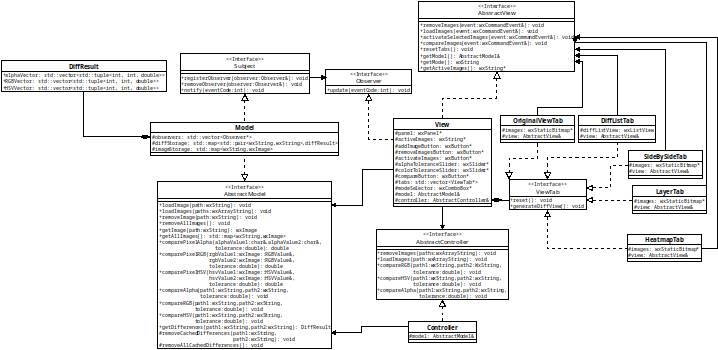
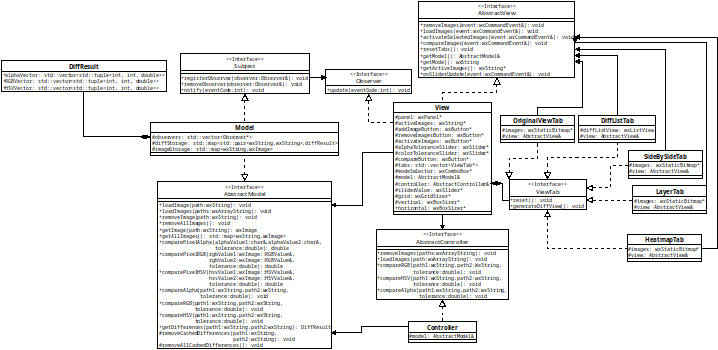
* Adding grid for add/remove button * Implement color tolerance slider * Implement slider event * modified UML * add value slider textbox

Changed region(s): [[0.5209, 0.2571, 0.7047, 0.6286], [0.5822, 0.2, 0.7967, 0.2286]]

diff --git a/src/view/View.cpp b/src/view/View.cpp
@@ -9,48 +9,59 @@ enum{                //IDs used for id item's definition
 	SLIDER_ALPHA,
 	SLIDER_COLOR,
 	MODE_SELECTOR,
-	LIST_ID
-
-};
-enum{
-
+	LIST_ID,
+	ABOUT,
+	STATIC_ID,
+	VALUE_SLIDER
 };
 wxBEGIN_EVENT_TABLE(View,wxFrame)
 	EVT_BUTTON(BUTTON_ADD,View::loadImages)
 	EVT_BUTTON(BUTTON_REMOVE,View::removeImages)
 	EVT_BUTTON(BUTTON_ACTIVATE,View::activateSelectedImages)
 	EVT_BUTTON(BUTTON_COMPARE,View::compareImages)
+	EVT_MENU(ABOUT,View::onAbout)
+	EVT_MENU(wxID_EXIT,View::onExit)
+	EVT_SLIDER(SLIDER_COLOR,View::onSliderUpdate)
 wxEND_EVENT_TABLE()
 View::View(const std::string title, const wxPoint &pos, const wxSize &size, AbstractModel& model, AbstractController& controller): wxFrame(NULL,wxID_ANY,title,pos,size),model(model),controller(controller) {
 
     model.registerObserver(this);  //registration view for successive notification
+
     panel = new wxPanel(this,PANEL_ID);
+    menuFile= new wxMenu;
+    menuFile->Append(ABOUT,"Eyeglass");
+	menuFile->AppendSeparator();
+	menuFile->Append(wxID_EXIT);
+	menu = new wxMenuBar;
+	menu->Append(menuFile,"&File");
+	SetMenuBar(menu);
     addImageButton = new wxButton(panel,BUTTON_ADD,_T("Aggiungi un immagine"));
     removeImagesButton = new wxButton(panel,BUTTON_REMOVE,_T("Rimuovi Immagine"));
     activateImages = new wxButton(panel,BUTTON_ACTIVATE,_T("Attiva Immagine"));
     compareButton = new wxButton(panel,BUTTON_COMPARE,_T("Compara le immagini"));
-    alphaToleranceSlider = new wxSlider(panel,SLIDER_ALPHA,500,0,1000,wxDefaultPosition,wxSize(200,200));
-    colorToleranceSlider= new wxSlider(panel,SLIDER_COLOR,500,0,100);
+    alphaToleranceSlider = new wxSlider(panel,SLIDER_ALPHA,500,0,1000,wxDefaultPosition,wxSize(100,50));
+    colorToleranceSlider= new wxSlider(panel,SLIDER_COLOR,500,0,1000,wxDefaultPosition,removeImagesButton->GetSize());
+	sliderValue = new wxTextCtrl(panel,VALUE_SLIDER,_("500"),wxDefaultPosition,wxDefaultSize,wxTE_CENTRE);
+	sliderValue->SetEditable(false);
     modeSelector = new wxComboBox(panel,MODE_SELECTOR,wxEmptyString);
     list = new wxListView(panel, LIST_ID, wxPoint(50, 50), wxSize(500, 400));
-    list->InsertColumn(0, "Images");
-    wxBoxSizer* vbox = new wxBoxSizer(wxVERTICAL);
-    wxBoxSizer* hbox1 = new wxBoxSizer(wxHORIZONTAL);
-    wxBoxSizer* hbox2 = new wxBoxSizer(wxHORIZONTAL);
+    list->InsertColumn(0, "Images",wxLIST_FORMAT_LEFT,250);
+	wxBoxSizer* hbox = new wxBoxSizer(wxHORIZONTAL);
+	wxBoxSizer* vbox = new wxBoxSizer(wxVERTICAL);
+	wxGridSizer* gs = new wxGridSizer(3,3,10,10);
+	hbox->Add(list,0,wxEXPAND);
+	vbox->Add(hbox,wxALIGN_LEFT);
+	gs->Add(addImageButton,0);
+	gs->Add(removeImagesButton,0);
+	gs->Add(activateImages,0);
+	gs->Add(new wxStaticText(panel, wxID_ANY, wxT("Seleziona tolleranza colore:")),0);
+	gs->Add(colorToleranceSlider,1);
+	gs->Add(sliderValue,0);
+	vbox->Add(gs,0,wxLEFT);
+	panel->SetSizer(vbox);
 
-    hbox1->Add(new wxPanel(panel,PANEL_ID));
 
-    vbox->Add(hbox1,1,wxEXPAND);
-
-    hbox2->Add(addImageButton);
-    hbox2->Add(removeImagesButton);
-    hbox2->Add(alphaToleranceSlider);
-    hbox2->Add(activateImages);
-    hbox2->Add(compareButton);
-
-    vbox->Add(hbox2,0,wxALIGN_CENTER);
-    panel->SetSizer(vbox);
-    Centre();
+	Centre();
 
 }
 void View::update(int eventCode) {
@@ -58,7 +69,6 @@ void View::update(int eventCode) {
 }
 
 void View::removeImages(wxCommandEvent& event) {
-	std::cout<<"BUO";
 	long item;
 	while((item = list->GetNextItem(-1,wxLIST_NEXT_ALL,wxLIST_STATE_SELECTED)) != -1){
 		list->DeleteItem(item);
@@ -66,8 +76,7 @@ void View::removeImages(wxCommandEvent& event) {
 }
 
 void View::loadImages(wxCommandEvent& event) {
-	std::cout<<"prova";
-	wxFileDialog* fileDialog=new wxFileDialog(this,"Scegli una foto",wxEmptyString,wxEmptyString,wxEmptyString,wxFD_MULTIPLE);
+	wxFileDialog* fileDialog=new wxFileDialog(this,_("Scegli una o più foto"),wxEmptyString,wxEmptyString,wxEmptyString,wxFD_MULTIPLE);
 	if(fileDialog->ShowModal() == wxID_CANCEL){
 		return;
 	}
@@ -108,4 +117,20 @@ wxString View::getMode() {
 
 wxString* View::getActiveImages() {
     return activeImages;
+}
+
+void View::onAbout(wxCommandEvent &event) {
+
+}
+
+void View::onExit(wxCommandEvent &event) {
+	Close(true);
+}
+
+void View::onSliderUpdate(wxCommandEvent &event) {
+	int myint = colorToleranceSlider->GetValue();
+	wxString mystring;
+	mystring << myint;
+	sliderValue->SetValue(mystring);
+
 }

diff --git a/src/view/View.h b/src/view/View.h
@@ -17,11 +17,15 @@
 #include "../utils/Observer.h"
 #include "ViewTab.h"
 #include "../controller/AbstractController.h"
+#include <wx/textctrl.h>
+
 
 
 class View: public wxFrame, public AbstractView, public Observer {
 protected:
     wxPanel* panel;            //application panel
+    wxMenu* menuFile;
+    wxMenuBar* menu;
     wxString* activeImages;   //Image activate array
     wxButton* addImageButton;   //adding image button
     wxButton* removeImagesButton;   //remove image button
@@ -34,6 +38,7 @@ protected:
     wxListView* list;
     AbstractModel& model;
     AbstractController& controller;
+	wxTextCtrl* sliderValue;
 
 
 public:
@@ -57,7 +62,14 @@ public:
     wxString getMode() override; //get selected comparation mode
 
     wxString* getActiveImages() override;   //get activated images
-	wxDECLARE_EVENT_TABLE();
+
+	void onAbout(wxCommandEvent &event) override;
+
+	void onExit(wxCommandEvent &event) override;
+
+	void onSliderUpdate(wxCommandEvent &event) override;
+
+wxDECLARE_EVENT_TABLE();
 };
 
 

diff --git a/src/view/AbstractView.h b/src/view/AbstractView.h
@@ -19,6 +19,9 @@ class AbstractView{
     virtual AbstractModel& getModel()=0;
     virtual wxString getMode()=0;
     virtual wxString* getActiveImages()=0;
+    virtual void onAbout(wxCommandEvent& event)=0;
+    virtual void onExit(wxCommandEvent& event)=0;
+    virtual void onSliderUpdate(wxCommandEvent& event)=0;
 };
 
 #endif //EYEGLASS_ABSTRACTVIEW_H
